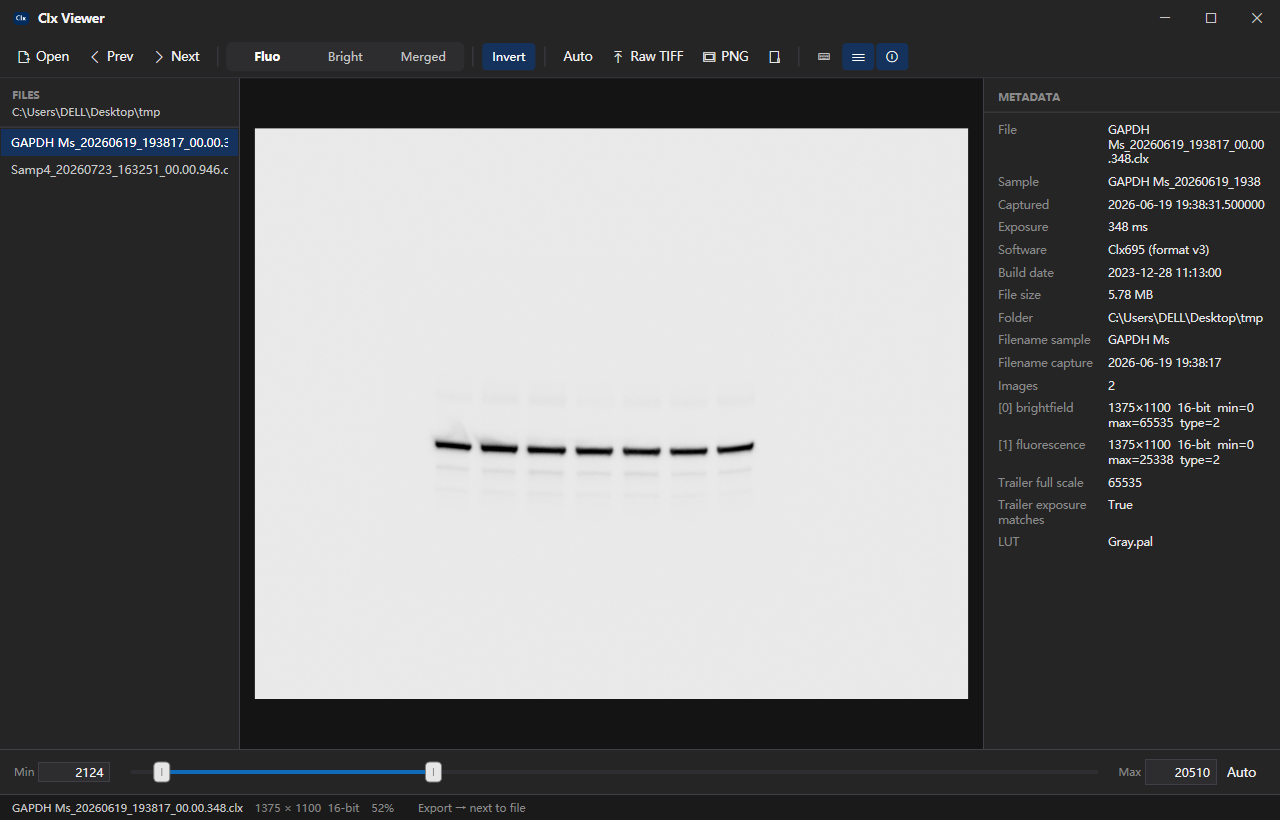
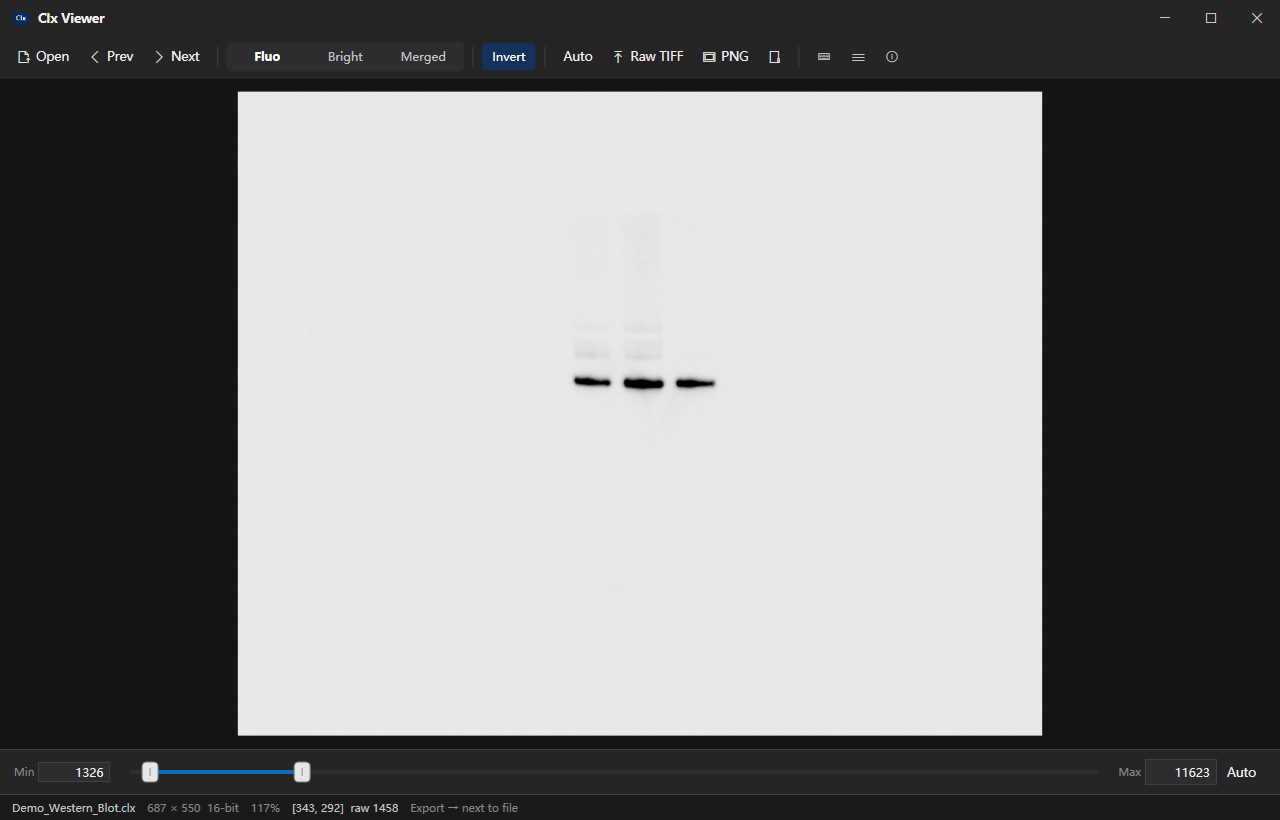
feat(viewer): add --clean view; privacy-safe capture tool and screenshot
- --clean hides the file-list and metadata panels (used for screenshots)
- capture-screenshot.ps1 no longer contains local paths; uses a neutral demo
  sample and passes --clean so no folder path/name appears in the shot

diff --git a/viewer/App.xaml.cs b/viewer/App.xaml.cs
@@ -11,6 +11,9 @@ public partial class App : Application
     private const string MutexName = "ClxViewer.SingleInstance";
     private const string PipeName = "ClxViewer.OpenFiles";
 
+    /// <summary>Starts with the file list and metadata panels hidden (used for clean screenshots).</summary>
+    public static bool CleanView { get; private set; }
+
     private Mutex? _mutex;
     private MainWindow? _main;
     private Thread? _pipeThread;
@@ -18,6 +21,7 @@ public partial class App : Application
     protected override void OnStartup(StartupEventArgs e)
     {
         base.OnStartup(e);
+        CleanView = e.Args.Any(a => a.Equals("--clean", StringComparison.OrdinalIgnoreCase));
         _mutex = new Mutex(true, MutexName, out bool createdNew);
         if (!createdNew)
         {

diff --git a/viewer/MainWindow.xaml.cs b/viewer/MainWindow.xaml.cs
@@ -65,6 +65,14 @@ public partial class MainWindow : Window
         SidebarToggle.Unchecked += (_, _) => Sidebar.Visibility = Visibility.Collapsed;
         MetaToggle.Checked += (_, _) => MetaPanel.Visibility = Visibility.Visible;
         MetaToggle.Unchecked += (_, _) => MetaPanel.Visibility = Visibility.Collapsed;
+
+        if (App.CleanView)
+        {
+            Sidebar.Visibility = Visibility.Collapsed;
+            MetaPanel.Visibility = Visibility.Collapsed;
+            SidebarToggle.IsChecked = false;
+            MetaToggle.IsChecked = false;
+        }
     }
 
     // ------------------------------------------------------------------ open
